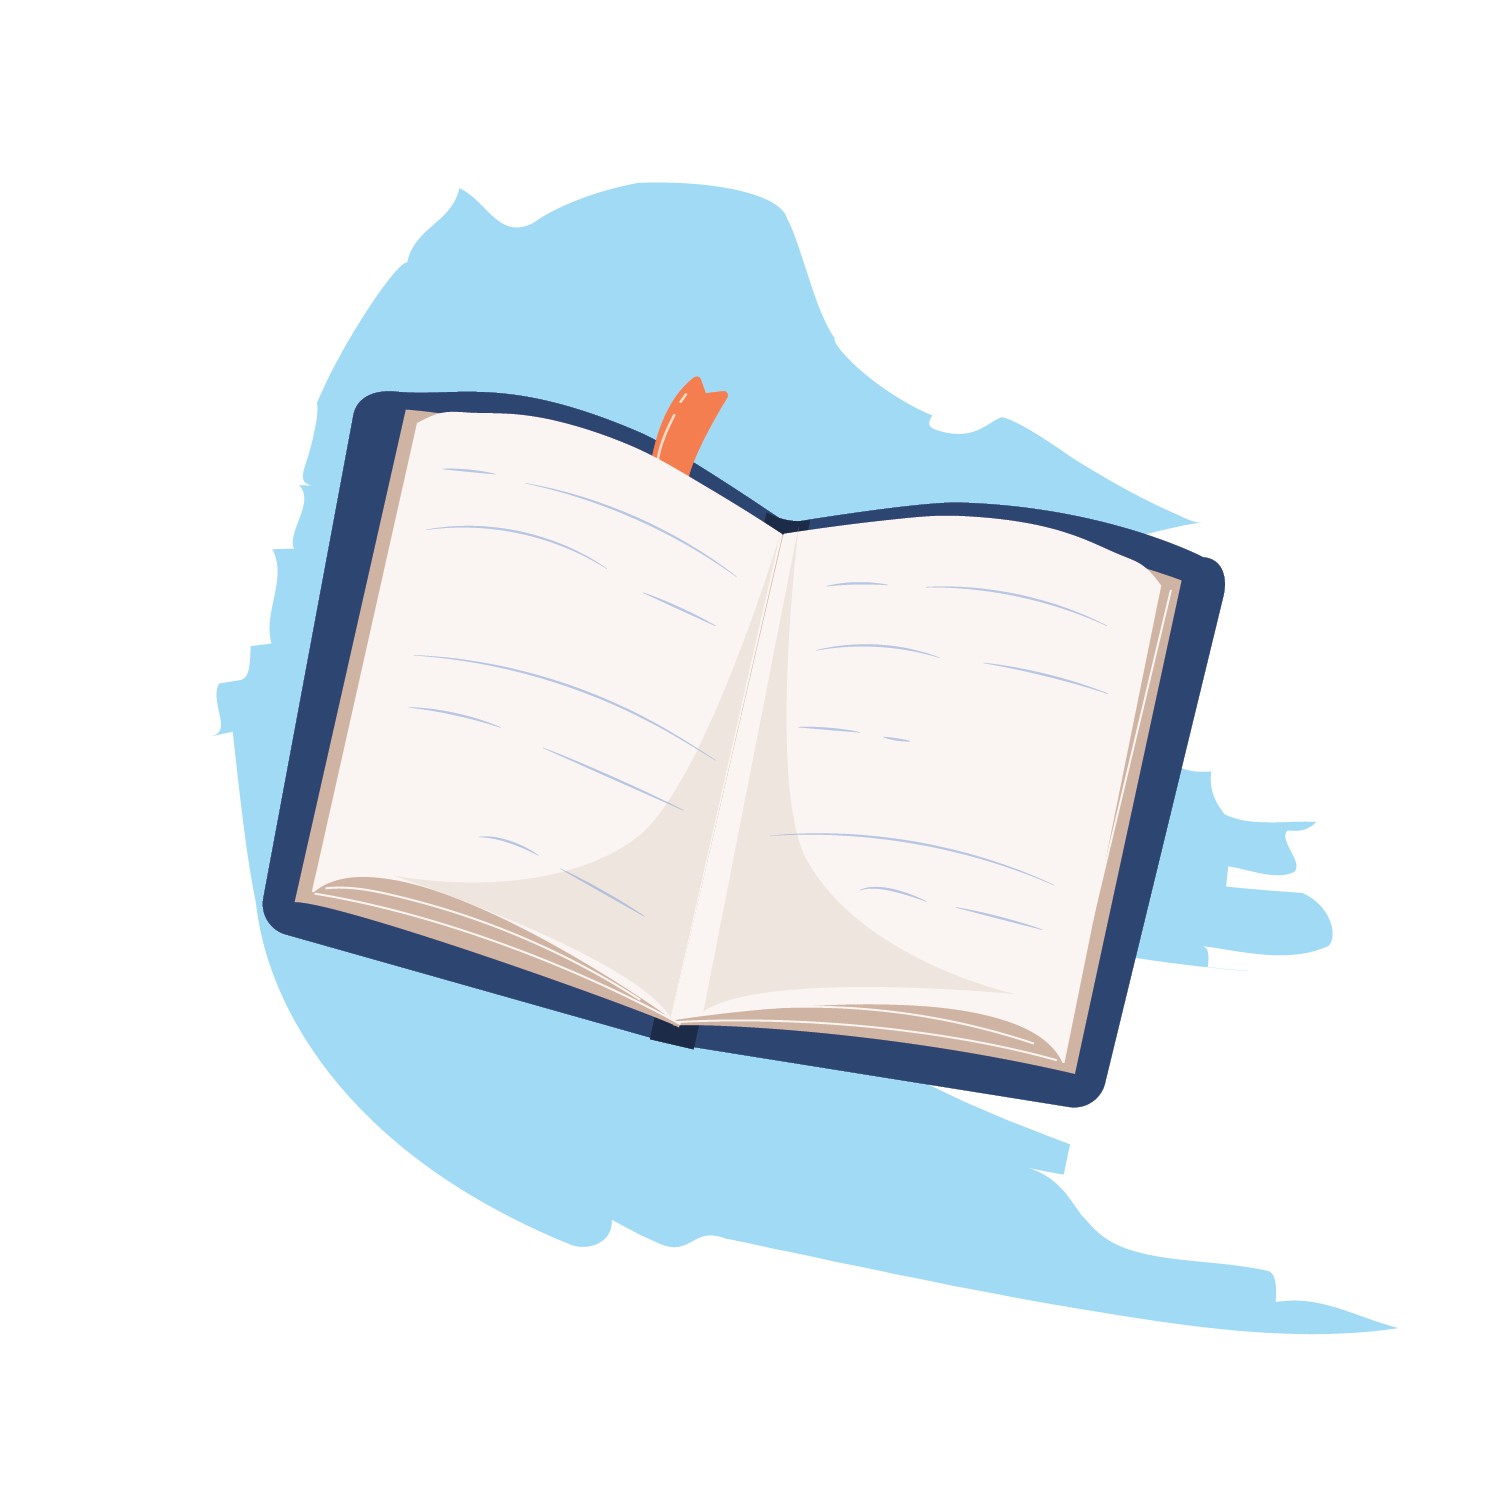
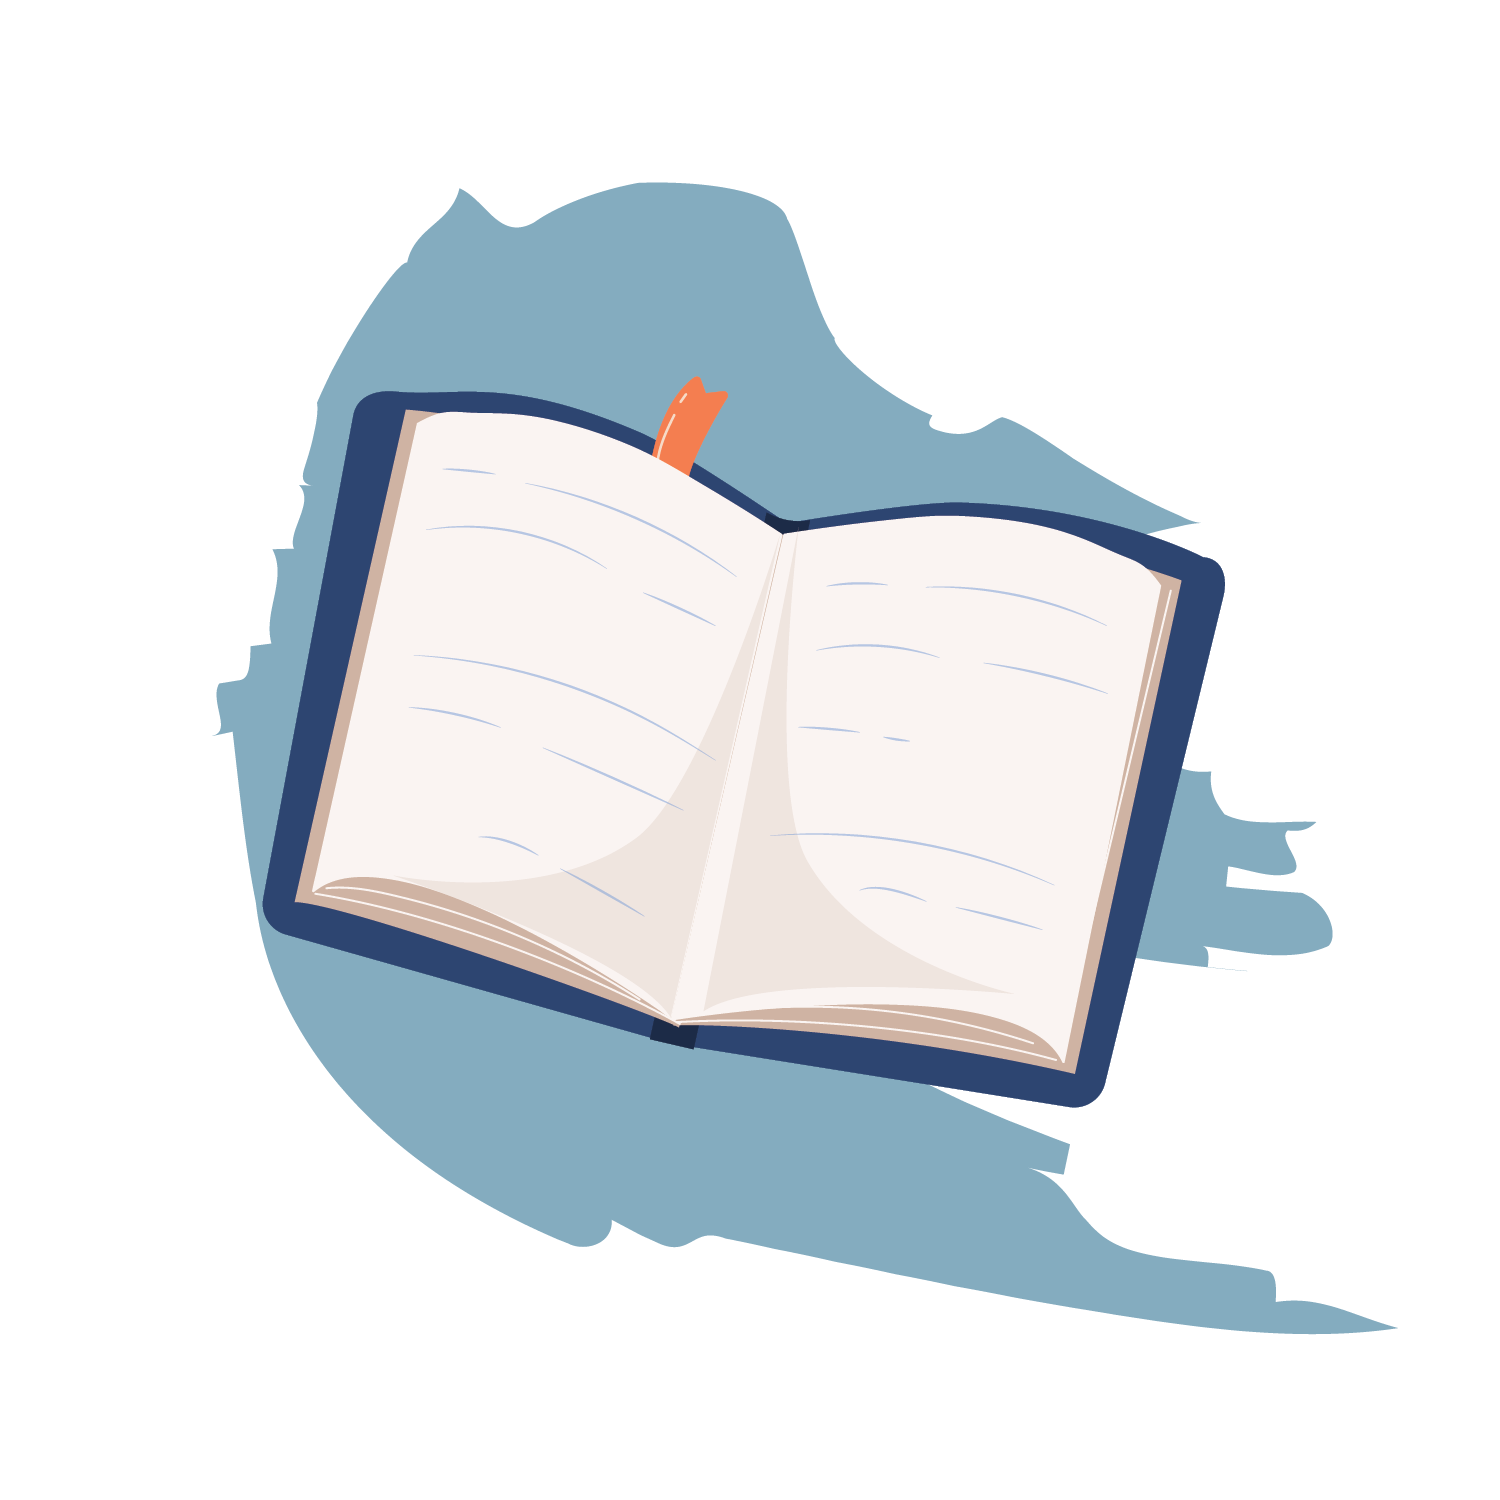
Fixed color on onboarding, finished camera preview

Changed region(s): [[0.1227, 0.1227, 0.92, 0.8893], [0.736, 0.5213, 0.8893, 0.644]]

diff --git a/lib/screens/camera.dart b/lib/screens/camera.dart
@@ -7,9 +7,13 @@ class CameraPage extends StatefulWidget {
 }
 
 class _CameraPageState extends State<CameraPage> with WidgetsBindingObserver {
+  // Camera
   CameraController _cameraController;
   List<CameraDescription> _cameras;
   int selected = 0;
+
+  // Text editing controller
+  TextEditingController _textEditingController;
 
   @override
   void initState() {
@@ -20,6 +24,7 @@ class _CameraPageState extends State<CameraPage> with WidgetsBindingObserver {
   @override
   void dispose() {
     _cameraController?.dispose();
+    _textEditingController?.dispose();
     super.dispose();
   }
 
@@ -32,8 +37,8 @@ class _CameraPageState extends State<CameraPage> with WidgetsBindingObserver {
           height: double.infinity,
           width: double.infinity,
           child: Column(
-            mainAxisAlignment: MainAxisAlignment.end,
-            crossAxisAlignment: CrossAxisAlignment.center,
+            mainAxisAlignment: MainAxisAlignment.start,
+            crossAxisAlignment: CrossAxisAlignment.start,
             children: <Widget>[
               Center(
                 child: Text(
@@ -57,27 +62,84 @@ class _CameraPageState extends State<CameraPage> with WidgetsBindingObserver {
                       child: CircularProgressIndicator(),
                     ),
               cameraPrev(),
-              Align(
-                alignment: Alignment.centerLeft,
-                child: Row(
-                  mainAxisAlignment: MainAxisAlignment.start,
-                  crossAxisAlignment: CrossAxisAlignment.center,
-                  children: <Widget>[
-                    IconButton(
-                      onPressed: _toggleCamera,
-                      icon: Icon(Icons.cameraswitch_rounded),
-                      iconSize: 32,
-                      color: Color(0xFF868686),
+              SizedBox(
+                height: MediaQuery.of(context).size.height * 0.03,
+              ),
+              Text(
+                'Hasil terjemahan',
+                style: Theme.of(context).textTheme.headline2,
+              ),
+              SizedBox(
+                height: MediaQuery.of(context).size.height * 0.01,
+              ),
+              Row(
+                mainAxisAlignment: MainAxisAlignment.start,
+                crossAxisAlignment: CrossAxisAlignment.center,
+                children: <Widget>[
+                  Container(
+                    width: MediaQuery.of(context).size.width * 0.55,
+
+                    // Text field for collecting results from prediction
+                    child: TextField(
+                      enabled: false,
+                      style: Theme.of(context).textTheme.subtitle1,
+                      maxLines: 4,
+                      decoration: InputDecoration(
+                        border: InputBorder.none,
+                      ),
                     ),
-                    Text('Switch camera',
-                        style: TextStyle(
-                          fontFamily: 'Oswald',
-                          fontSize: 14,
-                          fontWeight: FontWeight.bold,
-                          color: Color(0xFF868686),
-                        )),
-                  ],
-                ),
+                  ),
+                  Expanded(
+                    child: Align(
+                      alignment: Alignment.topRight,
+                      child: Column(
+                        mainAxisAlignment: MainAxisAlignment.start,
+                        crossAxisAlignment: CrossAxisAlignment.start,
+                        children: <Widget>[
+                          // Text-to-speech button
+                          TextButton(
+                            onPressed: () {},
+                            style: ButtonStyle(
+                              backgroundColor: MaterialStateProperty.all<Color>(
+                                  Colors.white),
+                              shape: MaterialStateProperty.all<
+                                      RoundedRectangleBorder>(
+                                  RoundedRectangleBorder(
+                                      borderRadius: BorderRadius.circular(10),
+                                      side: BorderSide(
+                                          color: Color(0xFF6597AF),
+                                          width: 0.5))),
+                            ),
+                            child: Text('Text-to-speech',
+                                style: Theme.of(context).textTheme.headline6),
+                          ),
+                          SizedBox(
+                              height:
+                                  MediaQuery.of(context).size.height * 0.005),
+
+                          // Clear text button
+                          TextButton(
+                            onPressed: () {
+                              _textEditingController?.clear();
+                            },
+                            style: ButtonStyle(
+                              backgroundColor: MaterialStateProperty.all<Color>(
+                                  Color(0xFF6597AF)),
+                              shape: MaterialStateProperty.all<
+                                  RoundedRectangleBorder>(
+                                RoundedRectangleBorder(
+                                  borderRadius: BorderRadius.circular(10),
+                                ),
+                              ),
+                            ),
+                            child: Text('Bersihkan teks',
+                                style: Theme.of(context).textTheme.headline5),
+                          ),
+                        ],
+                      ),
+                    ),
+                  ),
+                ],
               ),
             ],
           ),
@@ -86,17 +148,7 @@ class _CameraPageState extends State<CameraPage> with WidgetsBindingObserver {
     );
   }
 
-  Future<void> _initCamera() async {
-    _cameras = await availableCameras();
-    _cameraController = CameraController(_cameras[0], ResolutionPreset.medium);
-    _cameraController.initialize().then((_) {
-      if (!mounted) {
-        return;
-      }
-      setState(() {});
-    });
-  }
-
+  // Camera widget
   Widget cameraPrev() {
     if (_cameraController == null || !_cameraController.value.isInitialized) {
       return Center(
@@ -105,24 +157,61 @@ class _CameraPageState extends State<CameraPage> with WidgetsBindingObserver {
         ),
       );
     }
-    return Container(
-      height: MediaQuery.of(context).size.width,
-      width: MediaQuery.of(context).size.width,
-      child: ClipRRect(
-        child: OverflowBox(
-          alignment: Alignment.center,
-          child: FittedBox(
-            fit: BoxFit.fitWidth,
-            child: Container(
-                height: MediaQuery.of(context).size.width /
-                    _cameraController.value.aspectRatio,
-                child: CameraPreview(_cameraController)),
+    return Stack(
+      alignment: Alignment.topRight,
+      children: <Widget>[
+        Container(
+          height: MediaQuery.of(context).size.width,
+          width: MediaQuery.of(context).size.width,
+          child: ClipRRect(
+            child: OverflowBox(
+              alignment: Alignment.center,
+              child: FittedBox(
+                fit: BoxFit.fitWidth,
+                child: Container(
+                    height: MediaQuery.of(context).size.width /
+                        _cameraController.value.aspectRatio,
+                    child: CameraPreview(_cameraController)),
+              ),
+            ),
           ),
         ),
-      ),
+        Row(
+          mainAxisAlignment: MainAxisAlignment.start,
+          crossAxisAlignment: CrossAxisAlignment.center,
+          children: <Widget>[
+            IconButton(
+              onPressed: _toggleCamera,
+              icon: Icon(Icons.cameraswitch_rounded),
+              iconSize: 32,
+              color: Colors.white,
+            ),
+            Text('Switch camera',
+                style: TextStyle(
+                  fontFamily: 'Oswald',
+                  fontSize: 14,
+                  fontWeight: FontWeight.bold,
+                  color: Colors.white,
+                )),
+          ],
+        ),
+      ],
     );
   }
 
+  // Initialize camera
+  Future<void> _initCamera() async {
+    _cameras = await availableCameras();
+    _cameraController = CameraController(_cameras[0], ResolutionPreset.high);
+    _cameraController.initialize().then((_) {
+      if (!mounted) {
+        return;
+      }
+      setState(() {});
+    });
+  }
+
+  // Function for switching camera
   Future<void> _toggleCamera() async {
     final CameraDescription cameraDescription =
         (_cameraController.description == _cameras[0])

diff --git a/lib/screens/splash.dart b/lib/screens/splash.dart
@@ -69,11 +69,9 @@ class _SplashScreenState extends State<SplashScreen> {
 
     if (!_seen) {
       prefs.setBool('seen', true);
-      Navigator.of(context).push(
-          MaterialPageRoute(builder: (BuildContext context) => OnboardPage()));
+      Navigator.of(context).popAndPushNamed('/onboard');
     } else {
-      Navigator.of(context).push(MaterialPageRoute(
-          builder: (BuildContext context) => ScreenControl()));
+      Navigator.of(context).popAndPushNamed('/home');
     }
   }
 }

diff --git a/lib/screens/template.dart b/lib/screens/template.dart
@@ -7,6 +7,8 @@ class Template extends StatefulWidget {
 
 class _TemplateState extends State<Template> {
   Widget build(BuildContext context) {
-    return SafeArea();
+    return SafeArea(
+      child: Container(),
+    );
   }
 }

diff --git a/README.md b/README.md
@@ -86,7 +86,7 @@
 <p align="center">
   <img src="https://github.com/sherrylsin20/IBIS/blob/main/Banner.png" width="600" height="300" />
 
-  <p>IBIS: An Indonesian Sign Language System Real-time Translator. Features included in the application are real-time translation using front-rear camera and courses to help you learn sign language. Dark mode is available if you are more comfortable with it!
+  <p>IBIS: An Indonesian Sign Language System Real-time Translator. Features included in the application are real-time translation using front-rear camera and courses to help you learn sign language. 
   </p>
 </p>
 
